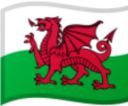
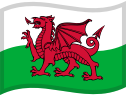
Show all language flags as bundled images instead of emoji
Some Android emoji fonts draw flag glyphs far below their text box, so
the header flag floated over the page (taps missed the button) and
picker rows hid their flags. Bundle Noto's waved flag artwork (public
domain) for every language and render it as an Image everywhere.

diff --git a/CreatingRecSet.qml b/CreatingRecSet.qml
@@ -317,11 +317,10 @@ Page {
                             contentItem: RowLayout {
                                 anchors { fill: parent; leftMargin: 16; rightMargin: 12 }
                                 spacing: 10
-                                // A bundled image for languages whose flag
-                                // doesn't render reliably as live emoji text
-                                // (currently just Welsh — see LanguageHelper::
-                                // flagImageSource's comment); the plain-text
-                                // glyph every other language uses otherwise.
+                                // The bundled flag image (see LanguageHelper::
+                                // flagImageSource's comment for why not emoji
+                                // text); the emoji glyph only as a fallback
+                                // where there's no image.
                                 Item {
                                     implicitWidth: 24; implicitHeight: 20
                                     Image {

diff --git a/SetDirMenu.qml b/SetDirMenu.qml
@@ -446,11 +446,10 @@ Page {
 
                 ToolButton {
                     id: interfaceFlagButton
-                    // A bundled image for languages whose flag doesn't
-                    // render reliably as live emoji text (currently just
-                    // Welsh — see LanguageHelper::flagImageSource's own
-                    // comment); the plain-text glyph every other language
-                    // uses otherwise.
+                    // The bundled flag image (see LanguageHelper::
+                    // flagImageSource's comment for why not emoji text);
+                    // the emoji glyph only as a fallback where there's no
+                    // image.
                     readonly property string flagImage:
                         LanguageHelper.flagImageSource(AppController.interfaceLanguage)
                     contentItem: Item {

diff --git a/include/languageHelper.h b/include/languageHelper.h
@@ -489,22 +489,32 @@ public:
         return mapping.value(lang, QStringLiteral("🏳"));
     }
 
-    // A bundled bitmap for languages whose flagEmoji() result doesn't render
-    // reliably as live text — currently just Welsh. Its flag is a 7-codepoint
-    // Unicode subdivision-flag tag sequence rather than an ordinary
-    // 2-codepoint regional-indicator flag, and Android's Noto Color Emoji has
-    // a documented history of positioning that artwork inconsistently within
-    // its own glyph box (confirmed here across three separate on-device
-    // attempts to compensate for it in QML: too small, then mostly cropped
-    // off, then overflowing). Rendering wales.png (extracted from a
-    // desktop-browser render of the same sequence, where it's correct) via
-    // an Image instead of a Text glyph sidesteps the on-device font entirely.
-    // Empty for every language that renders fine as plain text — callers
-    // fall back to flagEmoji() in that case.
+    // A bundled bitmap of every language's flag (images/flags/, Noto Color
+    // Emoji's own "waved" flag artwork from googlefonts/noto-emoji's
+    // third_party/region-flags, public domain), which every flag in the UI
+    // renders through instead of flagEmoji()'s text glyph. Android's emoji
+    // font can't be trusted to position flag glyphs within their own box:
+    // first just Welsh's 7-codepoint subdivision flag (too small, then
+    // cropped, then overflowing), later on some devices every flag — drawn
+    // ~150px below where its Text item actually is, so the header flag
+    // floated over the page (and taps on it missed the real button) and
+    // picker rows' flags hid under the next row. An Image sidesteps the
+    // on-device font entirely. Derived from flagEmoji() so the two can't
+    // drift apart; empty only where there's no flag to show.
     Q_INVOKABLE static QString flagImageSource(Language lang) {
         if (lang == Welsh)
             return QStringLiteral("qrc:/images/flags/wales.png");
-        return QString();
+        // A regular flag is two regional-indicator symbols (U+1F1E6..1F1FF,
+        // "A".."Z"), each a surrogate pair in the QString.
+        const QString emoji = flagEmoji(lang);
+        if (emoji.size() != 4) return QString();
+        QString code;
+        for (int i = 0; i < 4; i += 2) {
+            const char32_t cp = QChar::surrogateToUcs4(emoji.at(i), emoji.at(i + 1));
+            if (cp < 0x1F1E6 || cp > 0x1F1FF) return QString();
+            code += QChar(u'a' + char16_t(cp - 0x1F1E6));
+        }
+        return QStringLiteral("qrc:/images/flags/%1.png").arg(code);
     }
 
     // Best-effort match from the system/UI locale to one of our supported

diff --git a/src/languageHelper.cpp b/src/languageHelper.cpp
@@ -34,7 +34,8 @@ QVariantList LanguageHelper::sortedLanguageEntries()
         {"name", tr("Not selected")},
         {"id",   static_cast<int>(NotSelected)},
         {"code", QStringLiteral("")},
-        {"flag", QStringLiteral("")}
+        {"flag", QStringLiteral("")},
+        {"flagImage", QStringLiteral("")}
     });
 
     return entries;
